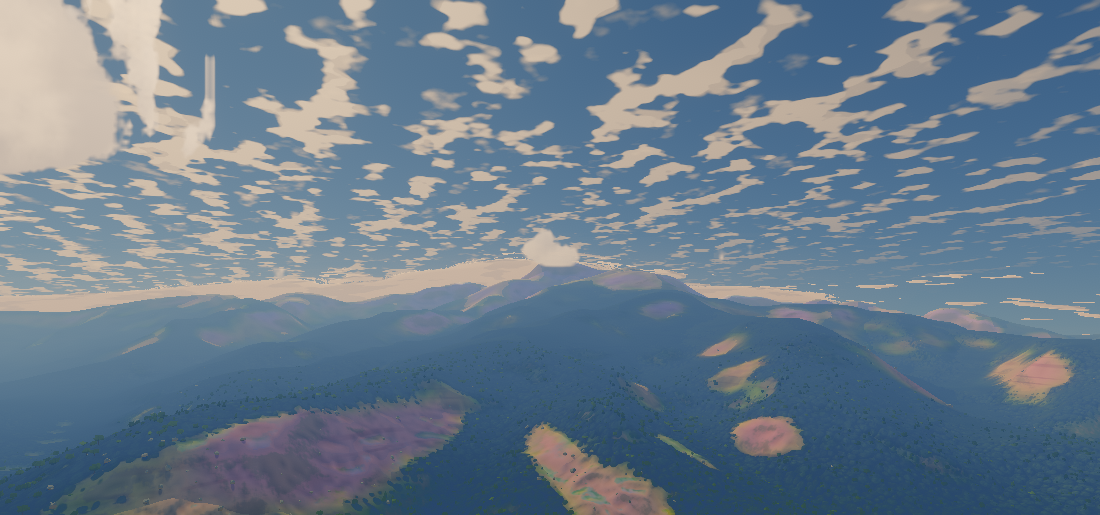
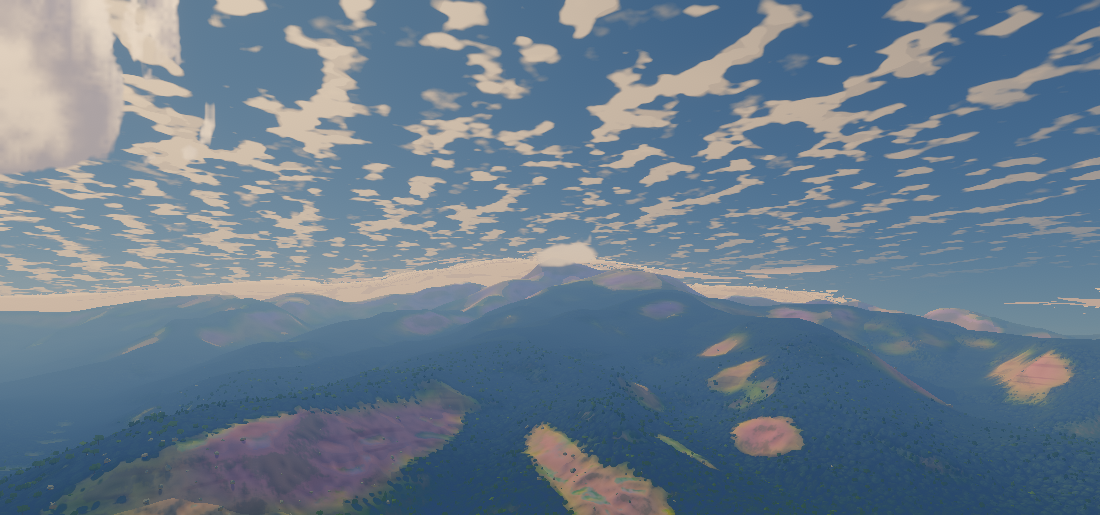
The sky's fault 5: separate heaps in two tones, far heaps with height, the storm tower lit on its Sun's side
The heaps: the field's heap cover is cut at a map of it (full cover is half
the sky seen from above, never a lid), from two readings of the noise (masses
two to five kilometres across, no rows on the noise's own 4.2 km lattice), in
two tones (the Sun's warm white, a lilac shade side with no forward glow, a
darker underside), and a dome's height follows the coarse reading. Beyond the
volume's reach each line of sight is followed through the layer at three
heights (governor step cloud-far: one again). Earth, which has no field, keeps
its own rule.

The storm: its sunward half is lit by which way its hull faces. The middle
layer seen from above keeps its lumps' two tones and is cut to a clean edge.

The report (docs/briefs/sky-faults-report.md) has the causes, the pictures,
the counts and what is not done.

Claude-Session: https://claude.ai/code/session_01R5Bri3JsgPNqFWmnrwMeAB

diff --git a/src/sky/skyGlsl.js b/src/sky/skyGlsl.js
@@ -123,12 +123,12 @@ export const CLOUD_RULE = Object.freeze({
   CUT: 0.85, FLOOR: 0.15, FLOOR_MIN: 0.2, GAIN: 2.2,            // the heap from the noise: clamp((n - (1 - c) CUT) / max(c CUT + FLOOR, FLOOR_MIN) GAIN)
   // HEAPS STAY HEAPS: the field's heap cover c is how much heap cloud the air holds (1: as much as
   // fair weather can), and the masses are cut from the noise at k = (CARVE0 + CARVE1 c), eased in
-  // from nothing over the first CARVE_IN of cover. At c = 1 a little over half the sky is cloud
-  // seen from straight above, at 0.5 a quarter, at 0.3 a seventh: separate heaps with gaps as
-  // wide as themselves, never a lid (a lid is a SHEET, the field's other cover). Cut at k = c, a
+  // from nothing over the first CARVE_IN of cover. At c = 1 half the sky is cloud seen from
+  // straight above, at 0.6 a quarter, at 0.3 an eighth: separate heaps with gaps as wide as
+  // themselves, never a lid (a lid is a SHEET, the field's other cover). Cut at k = c, a
   // cover of 0.6 was three quarters of the sky from above and 0.8 all of it: the union of every
   // level of a noise as deep as the layer (node scripts/sky-above.mjs prints the share).
-  CARVE0: 0.34, CARVE1: 0.24, CARVE_IN: 0.12,
+  CARVE0: 0.35, CARVE1: 0.29, CARVE_IN: 0.12,
   // THE GREAT MASSES: the field's cloud is cut from two readings of the noise, its own (lumps a
   // kilometre across, repeating every `scale`: 4.2 km on Haven) and one MASS_K times as coarse
   // (masses three kilometres across, repeating every 13.5 km and never in step with the first),
@@ -137,6 +137,7 @@ export const CLOUD_RULE = Object.freeze({
   // noise's own lattice, "rows of dashes" from the air. The coarse one does not rise: the masses
   // stand while their lumps boil up through them.
   MASS_K: 0.31, MASS_W: 0.55, MASS_OFFSET: [0.37, 0.11, 0.73],
+  TOP_LOW: 0.6,          // the share of the coarse reading in what a dome's HEIGHT is taken from (no spikes)
   // the heap's dome (as the volume has drawn it): its top from the noise, and the rounded foot
   DOME_LO: 0.36, DOME_EDGE: 0.32, DOME_COVER: 0.4, FOOT: 0.1, CROWN: 0.14,
   // the lobes eat at the edges of the masses, not their hearts
@@ -174,6 +175,15 @@ float skyHeapAtK(float n, float k, float c, float y) {
   float profile = smoothstep(0.0, ${glf(C.FOOT)}, y) * (1.0 - smoothstep(top - ${glf(C.CROWN)}, top, y));
   return skyHeapBodyK(n * profile, k);
 }
+// ... and with the dome's height taken from a reading of its own, nTop (the field's heaps: the
+// great masses' coarse reading counts for more in it than the lumps do. From the lumps' reading,
+// wherever that was locally high a dome stood a kilometre or two tall on a foot a few hundred
+// metres wide: a white spike on a heap.)
+float skyHeapAtT(float n, float nTop, float k, float c, float y) {
+  float top = skyHeapTopK(nTop, k, c);
+  float profile = smoothstep(0.0, ${glf(C.FOOT)}, y) * (1.0 - smoothstep(top - ${glf(C.CROWN)}, top, y));
+  return skyHeapBodyK(n * profile, k);
+}
 // the field's heaps: cut at skyCarve(c)
 float skyHeapTop(float n, float c) { return skyHeapTopK(n, skyCarve(c), c); }
 float skyHeapBody(float n, float c) { return skyHeapBodyK(n, skyCarve(c)); }
@@ -207,7 +217,7 @@ vec3 skyFormQ(vec3 q, vec3 up, float sheetShare) {
 // follows it toward the Sun: one rule.
 float skyLowAtL(highp sampler3D noise, vec3 q, float r, float a, float cover, float sheet, float share, float y, bool fine, float low) {
   vec2 n = skyMassOf(skyLowNoise2(noise, q, r, a), low);
-  float d = max(skyHeapAt(n.x, cover, y), skySheetAt(n.x, sheet, y, share));
+  float d = max(skyHeapAtT(n.x, mix(n.x, low, ${glf(C.TOP_LOW)}), skyCarve(cover), cover, y), skySheetAt(n.x, sheet, y, share));
   return fine ? skyEdgeEat(d, n.y) : d;
 }
 float skyLowAt(highp sampler3D noise, vec3 q, float r, float a, float cover, float sheet, float share, float y, bool fine) {
@@ -229,6 +239,10 @@ export function skyHeapAtKJS(n, k, c, y) {
   const top = skyHeapTopKJS(n, k, c), profile = sstep(0, C.FOOT, y) * (1 - sstep(top - C.CROWN, top, y));
   return skyHeapBodyKJS(n * profile, k);
 }
+export function skyHeapAtTJS(n, nTop, k, c, y) {
+  const top = skyHeapTopKJS(nTop, k, c), profile = sstep(0, C.FOOT, y) * (1 - sstep(top - C.CROWN, top, y));
+  return skyHeapBodyKJS(n * profile, k);
+}
 export const skyHeapTopJS = (n, c) => skyHeapTopKJS(n, skyCarveJS(c), c);
 export const skyHeapBodyJS = (n, c) => skyHeapBodyKJS(n, skyCarveJS(c));
 export const skyHeapAtJS = (n, c, y) => skyHeapAtKJS(n, skyCarveJS(c), c, y);
@@ -245,8 +259,8 @@ export function skySheetAtJS(n, sheet, y, share) {
   return sstep(0, Math.max(C.SHEET_BASE * share, 1e-3), y) * (1 - sstep(top - Math.max(C.SHEET_CROWN * share, 1e-3), top, y)) * body;
 }
 export function skyLowAtJS(noise, q, r, a, cover, sheet, share, y, fine) {
-  const n = skyMass2JS(noise, q, r, a);
-  const d = Math.max(skyHeapAtJS(n[0], cover, y), skySheetAtJS(n[0], sheet, y, share));
+  const low = skyMassLowJS(noise, q), n = skyMassOfJS(skyLowNoise2JS(noise, q, r, a), low);
+  const d = Math.max(skyHeapAtTJS(n[0], n[0] + (low - n[0]) * C.TOP_LOW, skyCarveJS(cover), cover, y), skySheetAtJS(n[0], sheet, y, share));
   return fine ? skyEdgeEatJS(d, n[1]) : d;
 }
 export function skyFormQJS(q, up, share) {

diff --git a/src/sky/clouds.js b/src/sky/clouds.js
@@ -11,7 +11,7 @@ import * as THREE from 'three';
 import { G } from '../render/globals.js';
 import { LIGHTING_PARS, lightingUniforms } from '../render/lightingGlsl.js';
 import { atmosphereDefines } from '../atmosphere/atmosphere.js';
-import { HEAP_GLSL, SKY_UNIFORMS, SKY_NOISE_UNIFORM_GLSL, SKY_STEER_UNIFORM_GLSL, SKY_FIELD_GLSL, SKY_V0 } from './skyGlsl.js';
+import { HEAP_GLSL, SKY_UNIFORMS, SKY_NOISE_UNIFORM_GLSL, SKY_STEER_UNIFORM_GLSL, SKY_FIELD_GLSL, SKY_V0, CLOUD_RULE } from './skyGlsl.js';
 import { CLOUD_LOOK as TONE } from './cloudLook.js';
 
 // The rule the shell, the volume and every shadow share (fair-weather fields, heaps carved
@@ -135,9 +135,11 @@ void main() {
       vec3 pp = uHeights == 1 ? planetPos : planetPos + rd * ((hi - h0) * inv);
       vec3 qs = skyToLow(uCloudSteer, pp) * uSkyLow.x;
       vec3 qf = skyFormQ(qs, normalize(qs), share);
-      vec2 n = skyMass2(tCloudNoise, qf, uSkyLow.y + hi, uCloudRise.x);
+      float low = skyMassLow(tCloudNoise, qf);
+      vec2 n = skyMassOf(skyLowNoise2(tCloudNoise, qf, uSkyLow.y + hi, uCloudRise.x), low);
       // (a sheet thinner than the layer lies at its foot: asked at a height inside it)
-      float d = max(skyHeapAt(n.x, L.x, yi), skySheetAt(n.x, L.y, min(yi, 0.5 * share), share));
+      // (uHeights 3: the dome's height from the coarse reading mostly, as the volume has it)
+      float d = max(uHeights == 1 ? skyHeapAt(n.x, L.x, yi) : skyHeapAtT(n.x, mix(n.x, low, ${glf(CLOUD_RULE.TOP_LOW)}), skyCarve(L.x), L.x, yi), skySheetAt(n.x, L.y, min(yi, 0.5 * share), share));
       d = skyEdgeEat(d, n.y * fine);
       float a = smoothstep(0.0, 0.45, d);
       yHit += through * a * yi; wHit += through * a;

diff --git a/src/sky/upperClouds.js b/src/sky/upperClouds.js
@@ -153,10 +153,16 @@ void main() {
     float lump = smoothstep(0.46, 0.62, lumpN + 0.35 * cover);
     alpha = min(${glf(U.MID_ALPHA)}, mix(lump * cover * 1.8, 0.75 + 0.25 * cover, veil));
     // (its two tones: the side of each cloudlet turned from the Sun. Not in a veil, which is flat.)
-    if (uUpper.w < 0.5 && veil < 1.0) {
+    // SEEN FROM ABOVE the layer lies over the land, and a veil of it thin enough to see through
+    // is a grey film on the country ("stickers"): from above a veil keeps its lumps' two tones
+    // (its top is rolled, and the Sun lies across it), and what is less than half there is cut
+    // to a clean edge, as the heaps are. From below nothing changes.
+    bool above = uUpper.z < 0.5;
+    if (uUpper.w < 0.5 && (veil < 1.0 || above)) {
       float n1 = upperNoise((q + steerMid(uSunDir) * 0.12) * k);
-      shade = mix(mix(${glf(U.MID_SHADE)}, 1.06, smoothstep(-0.03, 0.05, n - n1)), 1.0, veil);
+      shade = mix(mix(${glf(U.MID_SHADE)}, 1.06, smoothstep(-0.03, 0.05, n - n1)), 1.0, above ? 0.35 * veil : veil);
     }
+    if (above) alpha = mix(alpha, ${glf(U.MID_ALPHA)} * smoothstep(0.3, 0.5, alpha), uPaint.x);
   }
   // (nothing smaller than a pixel: from far above, a field of cloudlets is its own mean)
   float small = smoothstep(0.4, 1.4, px * uUpper.y / ${glf(U.MID_CELL)});

diff --git a/docs/briefs/sky-faults-report.md b/docs/briefs/sky-faults-report.md
@@ -161,7 +161,7 @@ drew before, so this is new on mornings with fog: its governor step `fog-sheet` 
 unchanged); 81 questions of the field every 60 s of the clock or 3 km flown in place of 25.
 A bookmark's `alt` costs nothing.
 
-## Fault 2: a storm 64 km off is a pale ghost — IN PROGRESS (three causes found, three cures in)
+## Fault 2: a storm 64 km off is a pale ghost — FOUR CAUSES, FOUR CURES; THE ANVIL NOT DONE
 
 **The causes**, told apart in one browser session with `scripts/sky-probe.mjs` (the view loaded
 once, a part switched off for each picture: `storm_probe_parts.png`, `storm_probe_nohaze.png`):
@@ -189,9 +189,150 @@ once, a part switched off for each picture: `storm_probe_parts.png`, `storm_prob
 
 **Pictures** (`shot=storm`, 16:15, from 30 km): `storm_60km_ground.png` (the first try, from
 open ground 60 km off: the top third over a ridge), `storm_30km_1_haze.png` (cure 2 alone),
-`storm_30km_2_window.png` (cures 2 and 3), `view_storm.png` (all four; being taken).
+`storm_30km_2_window.png` (cures 2 and 3), `view_storm.png` (all four: a sunlit right half, a
+slate shade side, the anvil over it, heaps in front).
+
+**Cost**: nothing on a day without a storm. With one: the tower's own steps beyond the reach
+half again (12 for 8, on the few pixels its hull covers), one evaluation of the hull's own
+direction a step inside a tower (arithmetic, no read), and in the mid and high shells one
+chord test a cell (at most 8, arithmetic) on pixels that have cover.
 
 **Not done**: the anvil is still a sheet of no thickness on the high shell, 9.6 km in radius
 over a tower 4.4 km in radius: a plate over a column. Sky B's report said where the cure
 belongs (the flare in the cell's own shape, `weather/sky/cellShape.js`, marched with it);
 that is a rewrite of the cell's exact chords and is not begun.
+
+## Fault 5: from high above the clouds are flat — THE HEAPS REDONE, THE MIDDLE LAYER FROM ABOVE; THE REST LISTED
+
+The critic's words (`haven-rich-critic-2.md`, gap 2): at 3 km "one flat beige-khaki cloud
+mass ... no sunlit top, no coloured shade side and no readable edge"; lower, cream cut-outs
+in one tone and rows of dashes at the horizon. With fault 1 cured the true field was on
+screen for the first time, and that is exactly what it was (`look_high_before.png`).
+
+**What the pictures are made of** (asked before tuning anything, in Node and with the probe):
+
+1. **The slab.** The model's heap cover reaches 0.9 to 1.0 in the middle of every field of
+   heaps, and the rule cut the cloud at that cover: seen from above a cover of 0.6 was cloud
+   over three quarters of the sky and 0.8 over all of it (the union of every level of a noise
+   as deep as the layer: CLAUDE.md's lesson about a grey lid). A heap cover is not a lid; a
+   lid is a SHEET, the field's other cover.
+2. **The rows of dashes.** The noise the heaps are cut from repeats every 4.2 km on Haven
+   (`clouds.volume.scale`). Cut from it alone a field of heaps was crumbs a kilometre wide
+   standing in rows 4.2 km apart: `above_rows_before.png` (`node scripts/sky-above.mjs`,
+   the low cloud from straight above, 60 km across).
+3. **One tone.** A heap's shade side kept 0.64 of the Sun's light in the Sun's own colour, and
+   the bright rim round the Sun (the forward lobe) was added to shade and light alike: looked
+   at toward the Sun a heap was as bright on its shade side as on its lit side. Beige on
+   beige.
+4. **Flat far heaps.** Beyond the volume's reach (16 km) the layer was read once, at one
+   height, on a sheet: a heap had no top, no side and no underside.
+5. **The storm tower** (fault 2) and **the middle cloud seen from above** (below).
+
+**What was changed** (all in the shared rule `sky/skyGlsl.js`, the march `sky/cloudVolume.js`,
+the far shell `sky/clouds.js`, the look's numbers now in `sky/cloudLook.js`; the JS twins
+changed with the GLSL, and the parity tests pass):
+
+- **Heaps stay heaps** (`CLOUD_RULE.CARVE0/1`): the field's heap cover c is cut at
+  k = 0.35 + 0.29 c (eased in from nothing below c = 0.12). Seen from straight above: cloud
+  over 12 % of the sky at c = 0.3, 25 % at 0.6, 49 % at 1.0; the one-height reading (the
+  shade atlas's, and the far shell's under `cloud-far`) is within 11 points of it (it was 45 %
+  against 74 % at 0.6). Sheets are
+  untouched: an overcast is still an overcast.
+- **The great masses** (`MASS_K`, `MASS_W`): the field's cloud is cut from two readings of
+  the noise, its own and one 3.2 times as coarse (repeating every 13.5 km, never in step with
+  the first), 0.55 of the coarse one, stretched back to one reading's spread. Masses two to
+  five kilometres across with lumps on them, and no rows: `above_masses_after.png`. The
+  coarse reading does not rise, so the masses stand while their lumps boil up through them.
+  One more read of the noise a step of the march (read once and handed to the look toward
+  the Sun): 4 a step where it was 3, the plan's own limit.
+- **Two tones** (`CLOUD_LOOK.SHADE` 0.42, `SHADE_TINT` lilac, `UNDER` 0.72): where the Sun
+  strikes, its own warm white; the shade side 0.42 of it turned lilac, the flat underside a
+  step darker again, and no forward glow in the shade. Decks keep their greys.
+- **Far heaps have height** (`sky/clouds.js`): beyond the reach each line of sight is
+  followed through the layer at three heights, the one the eye meets first first, each read
+  where the sight line itself crosses that height; the first one met gives the tone (top,
+  side or underside), with one look toward the Sun as the volume has. Clear sky now ends at
+  one read of the field (it was three reads everywhere). Governor step **`cloud-far`**
+  (after `pollen`, before `cloud-upper`; pinned in `scripts/sky-system-test.mjs`): one
+  height again, flat, the same clouds in the same places.
+- **Earth is as it was**: a world without a field keeps its own rule (`skyPlainAt`: the fine
+  reading alone, cut at the cover itself), in the march and in the shell.
+- **The middle layer from above** (`sky/upperClouds.js`): seen from above a veil of it thin
+  enough to see through was a grey film on the country; from above only, it keeps its lumps'
+  two tones and what is less than half there is cut to a clean edge. From below it is as it
+  was.
+
+**Pictures** (reference shape, the default game; `before` is fault 1's build, so the true
+field under the old look):
+
+| view | before | after |
+|---|---|---|
+| 3 km over the ledge at noon, toward the Sun, 12 down (`alt=4500&heading=30&pitch=-12&t=4`) | `look_high_before.png` | `look_high_after.png`, `look_high_after2.png` (the head) |
+| 5.5 km over the ledge, 20 down, 14:00 (`alt=7000&heading=200&pitch=-20&t=6`) | `look_7k_before.png` | `look_7k_after.png` |
+| 1.7 km over the ledge toward the afternoon Sun (`alt=3200&heading=300&pitch=2&t=6.5`) | `look_side_before.png` | `look_side_after.png` |
+| the brief's noon view (`alt=2513&heading=200&t=4`) | `noon_air_after.png` (fault 1) | `look_noon_after.png` |
+
+**The floor** (`?debug=floor`, every saving on): `look_high_floor.png`.
+
+**Cost** (counts, never a frame rate):
+- The march, `node scripts/cloud-cost.mjs --only reads` at the high view on both builds: **4
+  reads a step** out of the rise's fade where it was 3 (6 for 5 in the fade), which is the
+  plan's own limit and the tool's check; and cloud on **22 861 pixels of the small picture
+  where it was 100 935** (separate heaps, not a slab): about a third of the reads at that
+  view. A day of decks gains nothing and pays the one read more.
+- The far shell: clear sky, one read of the field where it was one and two of the noise; a
+  pixel with cloud, one read of the field and eight of the noise (three heights of two, and
+  the look toward the Sun) where it was three in all. Governor step `cloud-far` (buys: a
+  guess of 1.0 ms until the phone's cost table has it) takes it to two and one.
+- The upper shells from above: no more reads (the two tones' second read was already made
+  under a veil's edge; it is now made under all of a veil seen from above).
+- **Not measured on the phone.** The owner's session should ask for a Haven benchmark in
+  Sharp after merging this: the cost table's rows for `cloud-far`, `cloud-volume` and
+  `cloud-steps` are the ones to read.
+
+**Not done / known wrong** (in the order I would take them):
+1. **Thin tall turrets** were reduced late, not ended (`CLOUD_RULE.TOP_LOW`: a dome's height is taken 0.6
+   from the coarse reading; from the lumps' reading a dome stood a kilometre or two tall on a
+   foot a few hundred metres wide: the white spike on the near heap in `crown_spike.png`, the
+   comb at the left of `look_side_after.png`, which was taken before this). `view_crown.png`
+   and `look_high_after2.png` are after it: the spike on the near heap is half as tall and
+   still there, and the heaps' tops are broader and lower. The other `look_*_after` pictures
+   and `view_storm.png`, `view_mist.png`, `view_front.png` were taken before this last change
+   (builds f7 to f9 of the same day); the rule's tests pass on the head.
+2. **The near heaps' outline is stepped** at the reference size (`look_noon_after.png`): the
+   march's small picture is a quarter of the view each way and the clean cut is made from
+   it. It was so before; a white heap on a blue sky shows it more than a beige one on beige.
+3. **The anvil** is a sheet on the high shell (fault 2).
+4. **The middle layer changes as one climbs through it**: its thin veils are cut away from
+   above and kept from below. At the crossing the layer is edge on, but the far part of it
+   changes as one rises through 5 km.
+5. **The clouds' shadows on the ground from high above are faint**: the shade atlas has them
+   (the forest under the big heap in `look_high_after.png` is darker), but the look lifts
+   shade from the air (`look.aloft.lift`), which is the ground's shader and shared; not
+   touched.
+6. **The far heaps' tone from above at noon is white all over**: a top is lit, and from above
+   one sees tops; the side and the underside show from beside and below. Not judged yet from
+   a low Sun at 10 km and more.
+7. **Not looked at in motion.** Every picture here is a standing camera. The rule changes
+   are of the kind that cannot slide (no value hangs on the traveller; the three heights are
+   read where the sight line crosses them, which is the same world point from anywhere), but
+   `npm run stability` and a flight through the hand-over at 16 km have not been run on this
+   build: this machine takes two hours for them and they were left for the main session.
+8. **The model's fog under lakes** (fault 4) and its thinness.
+
+## Checks
+
+On the head of this branch: `node scripts/sky-slots-test.mjs`, `fog-sheet-test`,
+`cloud-volume-test`, `cloud-shade-test`, `sky-system-test`, `sky-list-test`, `sky-steer-test`,
+`sky-format-test`, `sky-cell-test`, `weather-test` and `./scripts/build-check.sh` pass.
+`sky-model-test` passes when the machine is quiet (a snapshot in 534 ms against 600 allowed);
+its timing check fails when a headless browser renders beside it on this machine's four cores
+(625 ms), and the model's code is untouched (`git diff` over `src/weather` is empty).
+Every picture run checked every shader
+against a phone's limits (`scripts/shots.mjs`): none over. `npm run smoke` was not run.
+
+New checks that fail when what they guard is broken: `sky-slots-test --break reslot`,
+`fog-sheet-test --break country`.
+
+SKY-FAULTS-DONE (2026-11-27): faults 1 to 4 cured as written above; fault 5's heaps and far
+heaps redone and the list of what is left is under it.

diff --git a/CLAUDE.md b/CLAUDE.md
@@ -779,6 +779,12 @@ finished benchmark leaves its text in `window.__benchResult`.
 - A noise texture that repeats every few kilometres shows as rows from the air however the
   cover varies: cut the masses from two readings at scales with no common period (the fine
   one alone gave crumbs a kilometre wide in rows 4.2 km apart).
+- A heap cover is not a lid. Cut from a 3-D noise at the cover itself, 0.6 was three quarters
+  of the sky from above; the field's heaps are cut at a map of it (`CLOUD_RULE.CARVE*`) so
+  that full cover is half the sky, and a lid is a sheet. `node scripts/sky-above.mjs` prints
+  the share of the land under cloud for the hour: read it before any picture of a sky.
+- The model's land is the elevation map, and that holds lake BEDS: its fog lay under the
+  water of every lake. Anything laid "on the ground" by rule must ask where the water is.
 - Two clocks: `?t=` (and a bookmark's `timeOffsetHours`) counts hours from the scene's own
   moment; the weather's clock counts seconds from `weather.epoch` (521 hours apart on Haven).
   A Node scan of the model at `t = H * 3600` asks about another day than the game shows at
